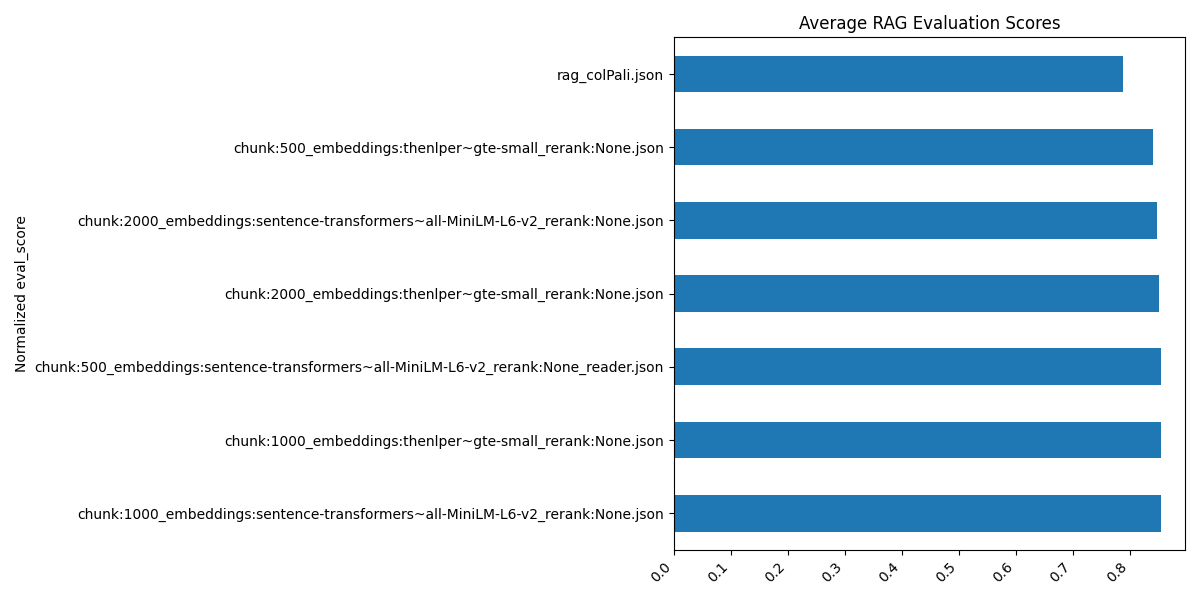
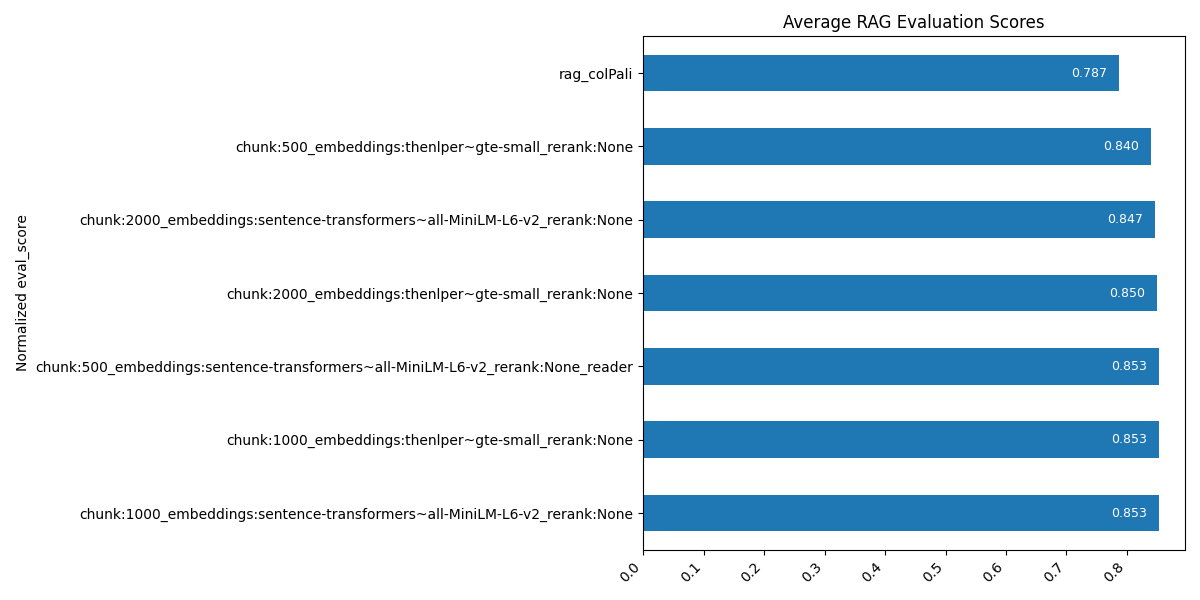
rag_eval plot

diff --git a/rag_evaluation.py b/rag_evaluation.py
@@ -383,6 +383,7 @@ def run_evaluation_for_images(data_type: DataType, eval_dataset: pd.DataFrame, e
 
 def plot_rag_results():
     ranked_scores = process_and_rank_results()
+    print(ranked_scores)
     df = ranked_scores.to_frame().reset_index()
     df = df.set_index('settings', inplace=False)
 
@@ -392,7 +393,22 @@ def plot_rag_results():
 
     n_bars = len(df)
     plt.figure(figsize=(12, max(6, n_bars*0.25)))
-    df['eval_score'].sort_values(ascending=False).plot(kind="barh")
+
+    ax = df['eval_score'].sort_values(ascending=False).plot(kind="barh")
+
+    for bar in ax.patches:
+        value = bar.get_width()
+        ax.text(
+            value - 0.02,                     
+            bar.get_y() + bar.get_height() / 2,
+            f"{value:.3f}",
+            va="center",
+            ha="right",
+            color="white",
+            fontsize=9
+        )
+
+    # df['eval_score'].sort_values(ascending=False).plot(kind="barh")
     plt.ylabel("Normalized eval_score")
     plt.xticks(rotation=45, ha="right")
     plt.title("Average RAG Evaluation Scores")
@@ -462,22 +478,22 @@ def prepare_eval_dataset(pdf_path):
 
 def llm_evaluate_rag_models(data_type: DataType, eval_dataset='data/RAG_evaluation.csv'):
     pdf_path = "data/ifc-annual-report-2024-financials.pdf"
-    json_files = glob.glob(f"./output/*.json")
-    eval_chat_model = init_chat_model("google_genai:gemini-2.5-flash-lite")
+    # json_files = glob.glob(f"./output/*.json")
+    # eval_chat_model = init_chat_model("google_genai:gemini-2.5-flash-lite")
 
 
-    # prepare evaluation dataset
-    if os.path.exists(eval_dataset):
-        eval_dataset = pd.read_csv(eval_dataset)
-    else:
-        eval_dataset = prepare_eval_dataset(pdf_path)
+    # # prepare evaluation dataset
+    # if os.path.exists(eval_dataset):
+    #     eval_dataset = pd.read_csv(eval_dataset)
+    # else:
+    #     eval_dataset = prepare_eval_dataset(pdf_path)
 
-    if data_type == DataType.TEXT:
-        run_evaluation(data_type, eval_dataset, eval_chat_model)
-    else:
-        run_evaluation_for_images(data_type, eval_dataset, eval_chat_model)
+    # if data_type == DataType.TEXT:
+    #     run_evaluation(data_type, eval_dataset, eval_chat_model)
+    # else:
+    #     run_evaluation_for_images(data_type, eval_dataset, eval_chat_model)
 
-    print("Scored model configurations: \n",  process_and_rank_results())
+    # print("Scored model configurations: \n",  process_and_rank_results())
     plot_rag_results()
 
 
